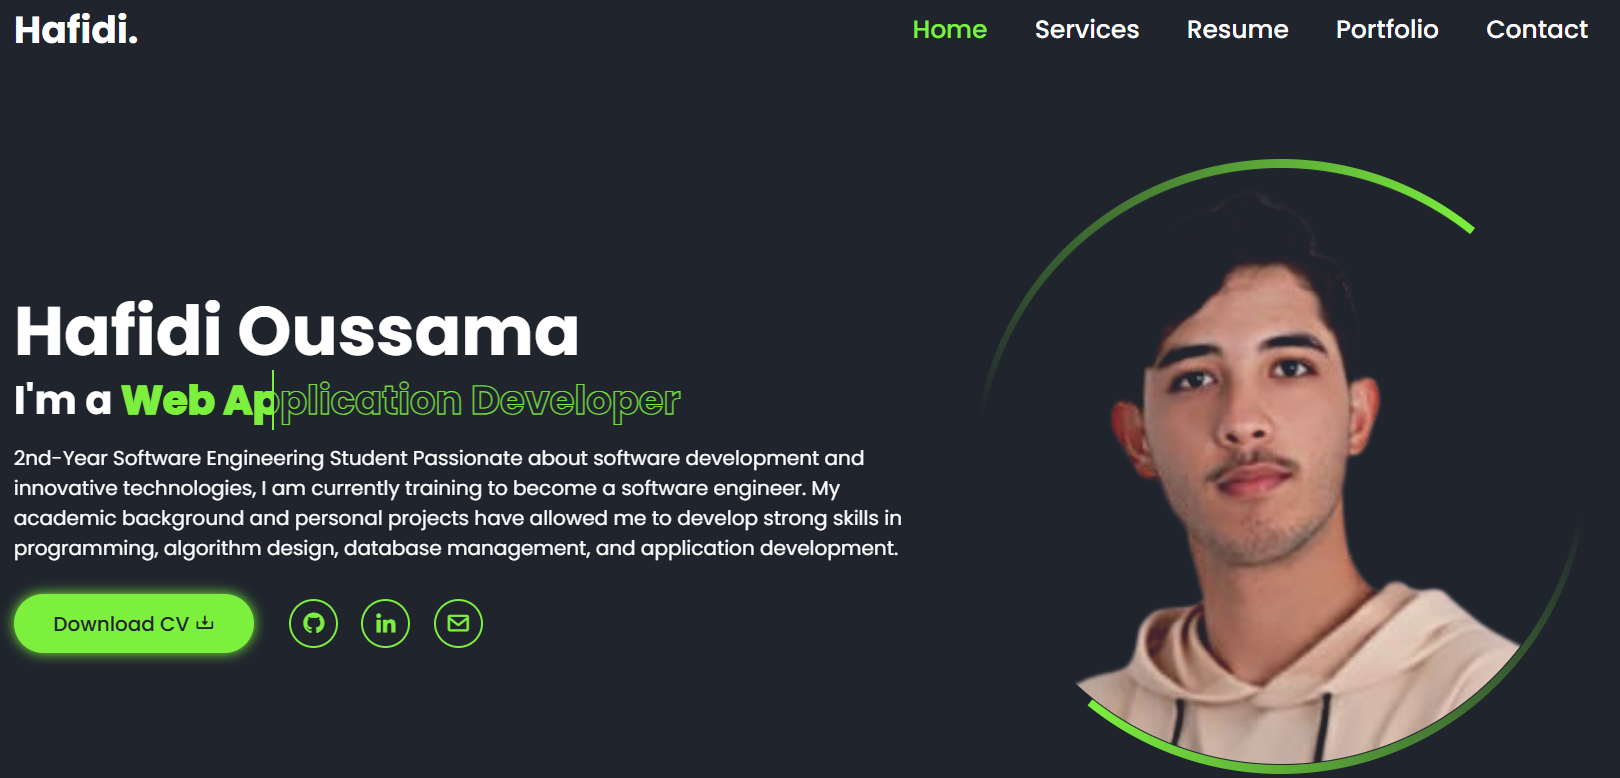
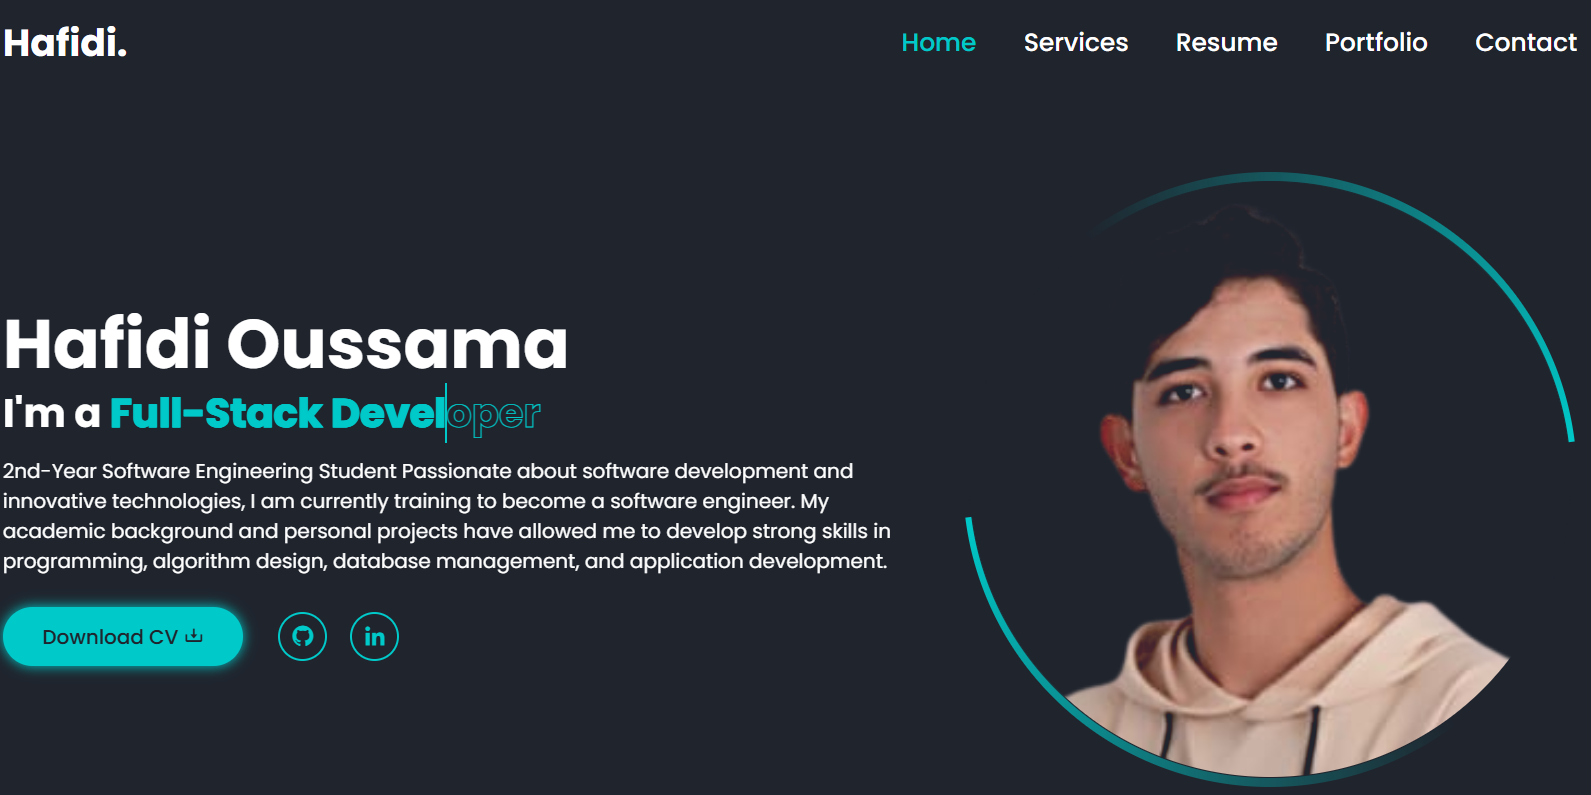
Ton message ici

diff --git a/css/style.css b/css/style.css
@@ -722,8 +722,8 @@ section.active {
         gap: 2rem;
     }
     .home-img .img-box {
-        width: 35rem;
-        height: 35rem;
+        width: 32vw;
+        height: 32vw;
     }
     .resume-container,
     .portfolio-container,
